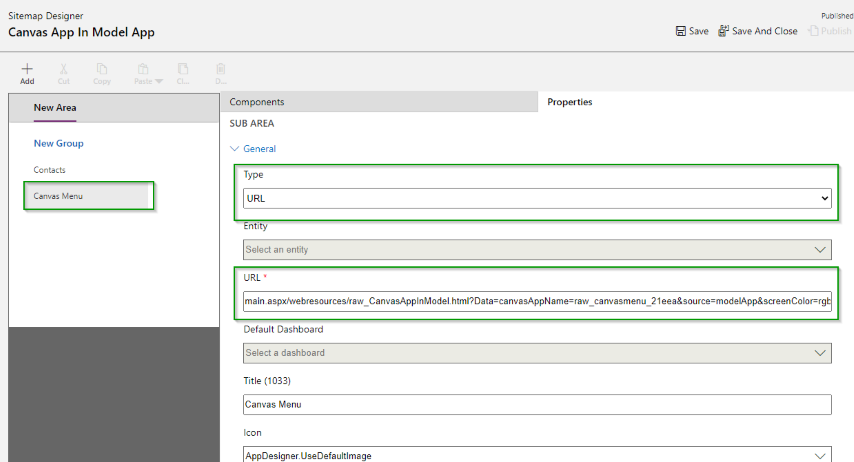
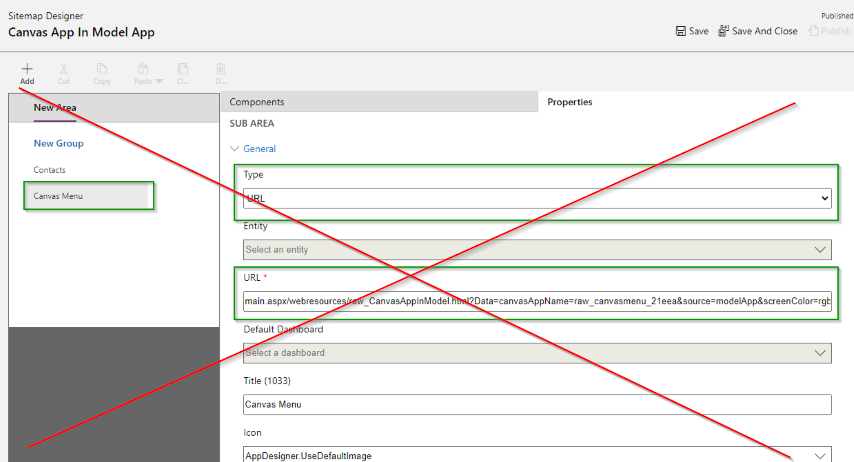
Updated Article

diff --git a/Launch-Canvas-From-Model-Sitemap/luanch-canvas-from-model-sitemap.md b/Launch-Canvas-From-Model-Sitemap/luanch-canvas-from-model-sitemap.md
@@ -31,15 +31,21 @@ main.aspx/webresources/raw_CanvasAppInModel.html?Data=canvasAppName%3Draw_canvas
 
 ```
 
-![Add Sitemap Link](https://github.com/rwilson504/Blogger/blob/master/Launch-Canvas-From-Model-Sitemap/SiteMapLink.png?raw=true)
-
-As you can see in the example the Data property appears to have several other parameters in it but they have all been encoded.  If you want to see what these parameters are decoded copy the contents of the data parameter use the decodeURIComponent command in a console window or use a website like this [Decode/Encode](https://meyerweb.com/eric/tools/dencoder/).
+As you can see in the example the Data property appears to have several other parameters in it but they have all been encoded.  If you want to see values decoded copy the contents of the data parameter use the decodeURIComponent command in a console window or use a website like this [Decode/Encode](https://meyerweb.com/eric/tools/dencoder/).
 
 Encoded Data Parameter
 ![Encoded Data Parameter](https://github.com/rwilson504/Blogger/blob/master/Launch-Canvas-From-Model-Sitemap/EncodedParams.png?raw=true)
 
 Decoded Data Parameter
 ![Decoded Data Parameter](https://github.com/rwilson504/Blogger/blob/master/Launch-Canvas-From-Model-Sitemap/DecodedParams.png?raw=true)
+
+
+**IMPORTANT NOTE - The SiteMap editor in the Maker portal will break your link to the WebResource, if you use it to edit the sitemap. This happens when you click on your subarea because the editor will decode all of your data parameters.  So make sure you edit your sitemap using [XrmToolbox](https://www.xrmtoolbox.com/) or an XML editor.**
+
+![Do Not Use Make Sitemap Editor](https://github.com/rwilson504/Blogger/blob/master/Launch-Canvas-From-Model-Sitemap/SiteMapLink.png?raw=true)
+
+
+![Use XrmToolbox](https://github.com/rwilson504/Blogger/blob/master/Launch-Canvas-From-Model-Sitemap/SiteMapLinkXrmToolbox.png?raw=true)
 
 Looking at the parameters we can see that I have included three in this example.  This list is just an example, as long as you include the canvasAppName you can include however many other parameters you want!
 
@@ -51,6 +57,8 @@ There are two additional parameters which the WebResource will automatically pus
 
 * modelAppId - This will be the guid of your current Model app.  This can be very useful in building links later back to records where you want the record screen to show up in the property App.
 * modelAppUrl - Is a link back to the Model App url where you launched the Canvas App from.  Again this can be useful later to build links.
+
+Additionally if you select the Pass Parameters checkbox on the sitemap link you will be able to get three additional parameters in your canvas app: orgname, orglcid, userlcid.
 
 After you have adjusted the Data parameters to be what you want make sure you go back and Encode them again before you past them into the SiteMap url.
 
